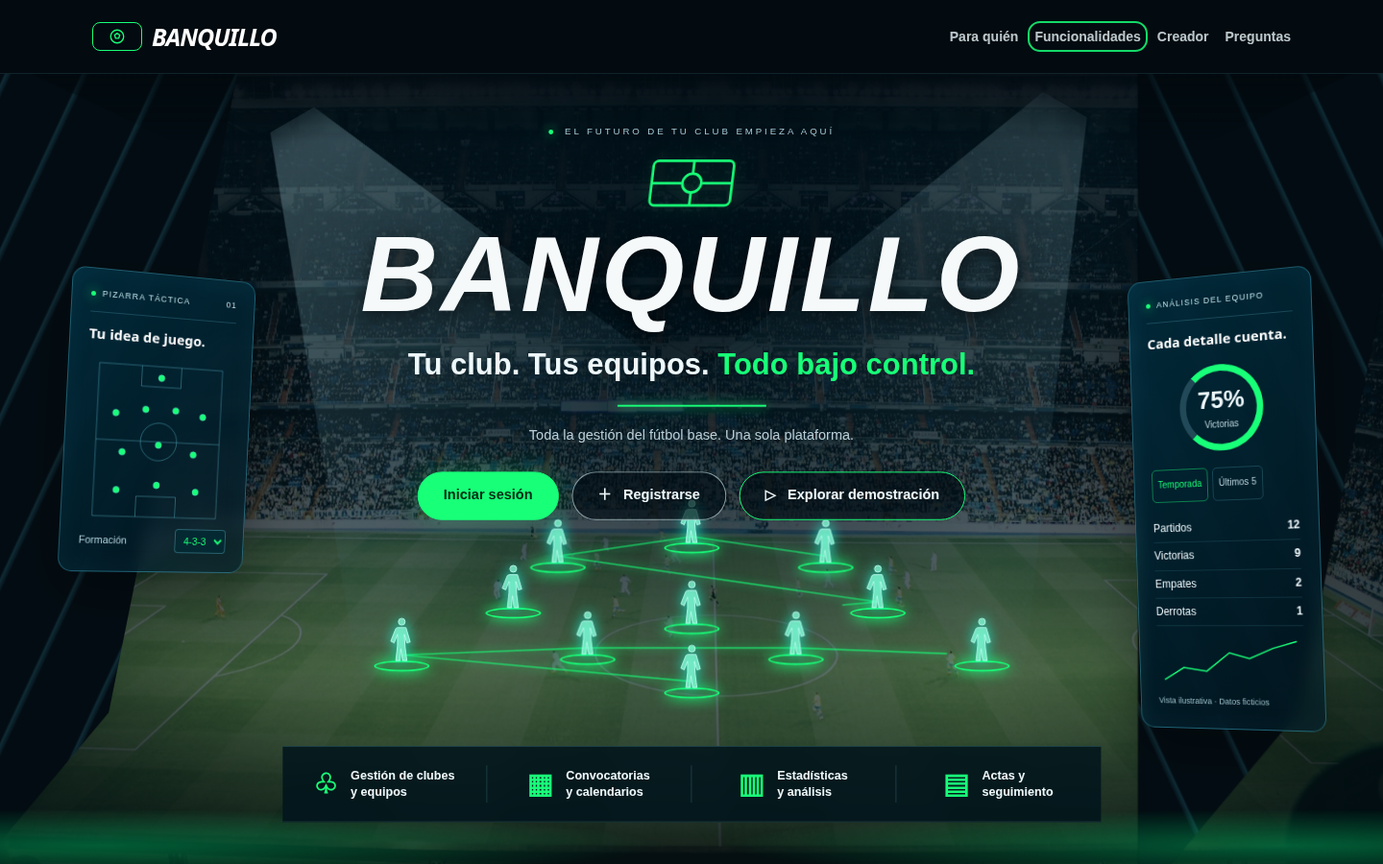
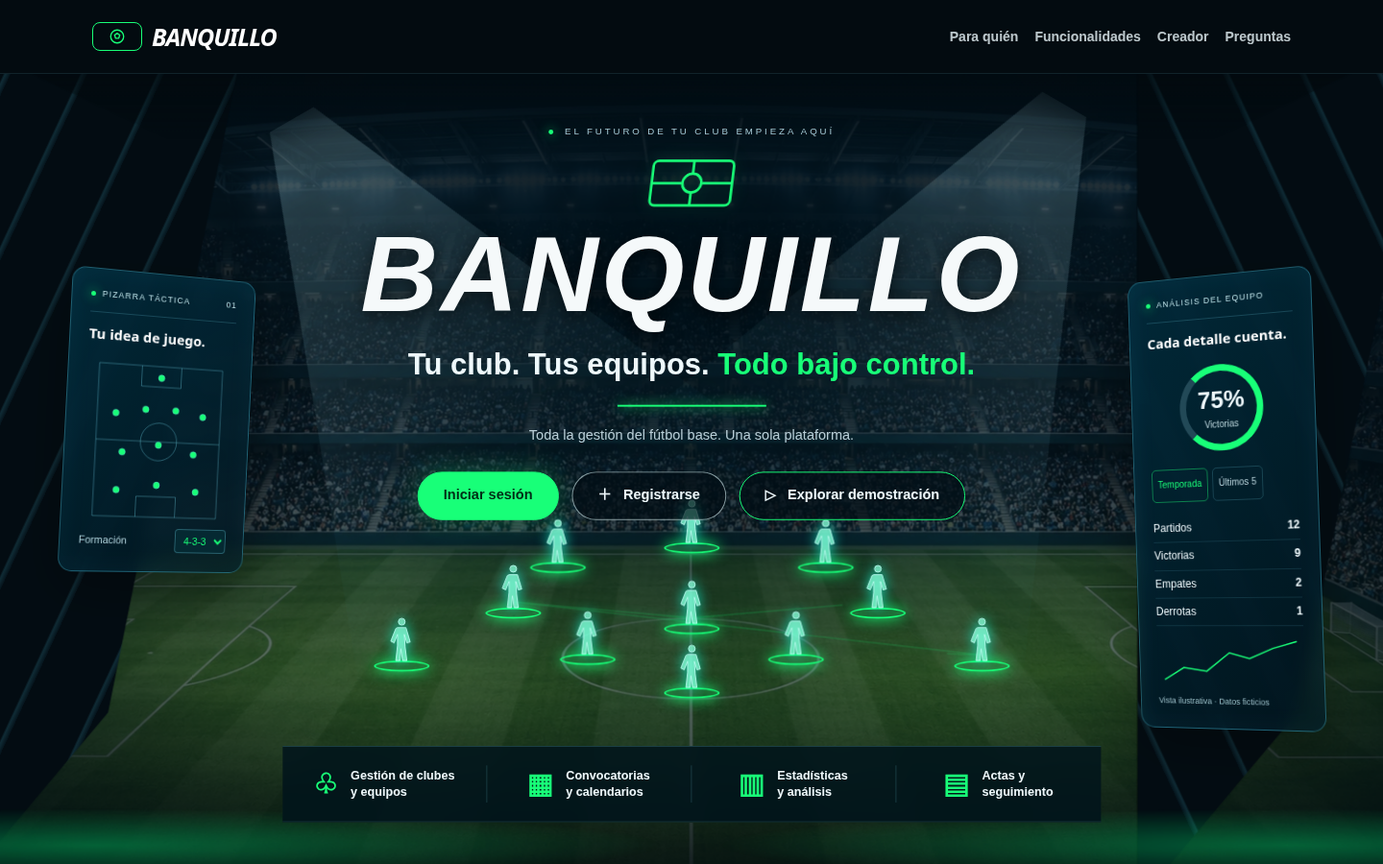
fix: focus auth forms, improve FAQ contrast and neutralize stadium backdrop

diff --git a/css/cinematic.css b/css/cinematic.css
@@ -1,10 +1,10 @@
 /* Isolated presentation layer: authenticated application styles stay intact. */
-#landing{--neon:#18ff78;--ice:#73daef;background:#030e14;color:#eef8fb;font-family:Barlow,sans-serif}#landing a{color:inherit}#landing .l-top{background:#030b10e8;border-bottom:1px solid #7cd5e51f;position:relative;z-index:5}#landing .l-top .l-in{max-width:1280px;min-height:76px}#landing .l-brand b{font-size:25px;font-style:italic;letter-spacing:-1px}#landing .mark{background:transparent;color:var(--neon);border:1px solid var(--neon)}#landing .l-nav a{color:#dde8ec;font-weight:600}#landing .l-nav a:hover{color:var(--neon)}#landing .cinema{height:850px;min-height:750px;position:relative;isolation:isolate;overflow:hidden;background:#04131b}.stadium-scene{position:absolute;inset:-25px;z-index:-2;transform:translate3d(var(--mx,0px),var(--my,0px),0) scale(1.04);transition:transform 1.5s ease-out}.stadium-photo{position:absolute;inset:0;background:linear-gradient(#00121ec7 0%,#00192365 50%,#00291b66 73%,#020e13 100%),url('../assets/stadium.jpg') center 62%/cover;filter:saturate(.7)}.stadium-haze{position:absolute;inset:0;background:radial-gradient(ellipse at 50% 25%,#001019d9 0%,transparent 65%),linear-gradient(90deg,#000b12a0,transparent 30%,transparent 70%,#000b12a0)}.tunnel{position:absolute;top:0;bottom:0;width:20%;background:repeating-linear-gradient(115deg,#030c12 0 65px,#102c36 67px,#05131b 72px);filter:drop-shadow(0 0 18px #000)}.tunnel-left{left:0;clip-path:polygon(0 0,100% 0,54% 78%,0 100%);border-left:5px solid #1cff94}.tunnel-right{right:0;clip-path:polygon(0 0,100% 0,100% 100%,46% 78%);transform:scaleX(-1)}.tunnel-roof{position:absolute;inset:0 0 auto;height:110px;background:linear-gradient(#02090d,transparent);clip-path:polygon(0 0,100% 0,85% 100%,15% 100%)}.floor-glow{position:absolute;bottom:0;height:150px;width:100%;background:radial-gradient(ellipse at 10% 60%,#00ff8055,transparent 30%),radial-gradient(ellipse at 90% 60%,#00ff8055,transparent 30%);border-bottom:1px solid #13ff6e}.spotlight{position:absolute;top:9%;width:34%;height:64%;background:linear-gradient(180deg,#c3f5ff77, #4fd4ff11 70%,transparent);filter:blur(16px);clip-path:polygon(42% 0,52% 0,100% 100%,0 100%);animation:stadium-light 9s ease-in-out infinite alternate;transform-origin:50% 0}.spotlight.left{left:7%;transform:rotate(-30deg)}.spotlight.right{right:7%;transform:rotate(30deg);animation-delay:-5s}.cinema-copy{position:relative;text-align:center;padding-top:55px;z-index:2;max-width:950px;margin:auto}.cinema-eyebrow{font-size:10px;letter-spacing:3px;color:#a6c8d3}.cinema-eyebrow span,.live-dot{display:inline-block;width:5px;height:5px;border-radius:50%;background:var(--neon);box-shadow:0 0 12px var(--neon);margin-right:7px}.pitch-logo{width:92px;height:57px;color:var(--neon);margin:19px auto 0;transform:skew(-7deg);filter:drop-shadow(0 0 9px #18ff7833)}#landing .cinema h1{font-family:'Barlow Condensed',sans-serif;font-size:clamp(65px,8vw,122px);font-style:italic;font-weight:700;letter-spacing:3px;line-height:1;margin:7px 0 16px;color:#f5f9fa;text-shadow:0 4px 20px #0009}.cinema-tagline{font-size:clamp(20px,2.4vw,32px);font-weight:600;margin:0}.cinema-tagline strong{color:var(--neon)}.neon-rule{width:160px;height:2px;background:var(--neon);box-shadow:0 0 12px var(--neon);margin:20px auto}.cinema-description{color:#b9ced7;font-size:15px}.cinema-actions{display:flex;justify-content:center;gap:14px;margin:28px 0}.cinema-btn{display:inline-flex;align-items:center;justify-content:center;min-height:52px;padding:0 27px;border:1px solid #d5edf0a1;border-radius:40px;text-decoration:none;font-weight:700;background:#020e14ad;transition:box-shadow .25s,transform .25s}.cinema-btn.primary{background:var(--neon);color:#002c15!important;border-color:var(--neon);box-shadow:0 0 30px #18ff7844}.cinema-btn.demo{border-color:var(--neon)}.cinema-btn:hover{transform:translateY(-3px);box-shadow:0 0 24px #18ff7844}.holo-panel{position:absolute;top:215px;width:205px;padding:20px;background:linear-gradient(135deg,#003347b8,#001620b8);border:1px solid #51cee85e;border-radius:15px;box-shadow:inset 0 0 32px #41d8ff0c,0 20px 60px #0005;backdrop-filter:blur(8px);z-index:1}.formation-panel{left:max(3%,calc(50% - 675px));transform:perspective(1000px) rotateY(15deg) rotateZ(3deg)}.stats-panel{right:max(3%,calc(50% - 675px));transform:perspective(1000px) rotateY(-15deg) rotateZ(-2deg)}.panel-heading{font-size:9px;letter-spacing:1.2px;color:#c0e3e9;border-bottom:1px solid #73daef33;padding-bottom:12px;display:flex;align-items:center}.panel-heading span:last-child:not(.live-dot){margin-left:auto}#landing .holo-panel h2{font-size:15px;color:#fff;margin:14px 0}.mini-pitch{width:100%;height:176px;stroke:#73daef66;color:var(--neon)}.formation-label{display:flex;justify-content:space-between;align-items:center;font-size:11px;color:#b0d2db}.formation-label select{background:#052932;color:var(--neon);border:1px solid #73daef55;border-radius:4px;padding:5px}.stat-ring{width:93px;height:93px;border:7px solid var(--neon);border-left-color:#224957;border-radius:50%;display:flex;flex-direction:column;justify-content:center;align-items:center;margin:18px auto}.stat-ring b{font-size:26px}.stat-ring span{font-size:10px;color:#bbd5db}.stat-tabs{display:flex;gap:5px}.stat-tabs button{font:inherit;font-size:10px;background:transparent;color:#b9d4dc;border:1px solid #73daef33;border-radius:5px;padding:6px;cursor:pointer}.stat-tabs button.active{color:var(--neon);border-color:#18ff7870}.stat-list{font-size:12px;margin:14px 0}.stat-list div{display:flex;justify-content:space-between;border-bottom:1px solid #73daef20;padding:6px 0}.stat-list dd{margin:0;font-weight:600}.stat-chart{width:100%;height:48px;fill:none;stroke:var(--neon);stroke-width:2}.holo-panel small{font-size:9px;color:#9bbfc8}.tactical-field{position:absolute;top:475px;left:50%;width:800px;height:190px;transform:translateX(-50%)}.tactical-lines{width:100%;height:100%;fill:none;stroke:#18ff78;stroke-width:1.4;filter:drop-shadow(0 0 5px #18ff78);stroke-dasharray:900;animation:tactics 6s ease-in-out infinite}.hologram{position:absolute;width:48px;height:60px;left:var(--x);top:var(--y);transform:translate(-50%,-70%);animation:materialize 1.4s both;animation-delay:var(--delay);transition:left 1s,top 1s}.hologram:before{content:'';position:absolute;bottom:0;left:-6px;width:60px;height:12px;border:2px solid var(--neon);border-radius:50%;box-shadow:0 0 15px var(--neon),inset 0 0 14px #18ff7855}.hologram svg{width:28px;height:50px;display:block;margin:auto;fill:#8affd7bb;stroke:#bdfff3;stroke-width:1;filter:drop-shadow(0 0 7px #14ffd9)}.cinema-features{position:absolute;bottom:92px;left:50%;transform:translateX(-50%);width:min(880px,85%);display:grid;grid-template-columns:repeat(4,1fr);background:#00131bd6;border-top:1px solid #73daef33;border-bottom:1px solid #73daef22;padding:20px 0;backdrop-filter:blur(10px)}.cinema-features a{display:flex;align-items:center;gap:13px;justify-content:center;font-size:13px;font-weight:600;text-decoration:none;border-right:1px solid #73daef30}.cinema-features a:last-child{border:0}.cinema-features a span{font-size:30px;color:var(--neon)}.scroll-cue{position:absolute;bottom:28px;left:50%;transform:translateX(-50%);font-size:9px;letter-spacing:2px;text-decoration:none;color:#a9c8d2!important;text-align:center}.scroll-cue span{display:block;font-size:20px;margin-top:7px}#landing .l-sec{background:#06131b;border-top:1px solid #86c9d51a;padding:85px 20px}#landing .l-sec.alt{background:#081922}#landing .l-in{max-width:1160px}#landing .l-sec h2{color:#f0f8fa;font-size:36px;letter-spacing:-.5px}#landing .l-sec p{color:#adc3ce}#landing .l-kicker{color:var(--neon);letter-spacing:2px;font-size:11px}#landing .entry-grid{display:grid;grid-template-columns:1fr 1fr;gap:100px;align-items:center}#landing .entry-grid h2{font-size:46px;line-height:1.1}#landing .l-demo-access{background:#0b292b;border-color:#18ff7833;margin-top:28px;scroll-margin-top:25px}#landing .l-demo-choices{display:flex;flex-wrap:wrap;gap:12px}#landing .l-demo-choices a{color:var(--neon);font-size:13px}#landing .auth-card{background:#0c202b;border:1px solid #73daef33;box-shadow:0 20px 60px #0004;border-radius:16px}#landing .auth-card h2{font-size:26px}#landing .l-mode-card,#landing .l-grid article{background:#0b202b;border:1px solid #73daef25;border-radius:14px;padding:28px}#landing .l-mode-card h3,#landing .l-grid h3,#landing .l-creator h3{color:#eef9fc}#landing .l-mode-label{color:var(--neon)}#landing .l-foot{background:#020b10;color:#9cb5c2}#landing :focus-visible{outline:2px solid var(--neon);outline-offset:5px}.reveal-ready{opacity:0;transform:translateY(20px);transition:opacity .7s,transform .7s}.reveal-ready.visible{opacity:1;transform:none}@keyframes stadium-light{to{opacity:.4;filter:blur(25px)}}@keyframes tactics{0%{stroke-dashoffset:900;opacity:.2}50%,100%{stroke-dashoffset:0;opacity:.8}}@keyframes materialize{from{opacity:0;filter:blur(6px);translate:0 15px}to{opacity:1;filter:blur(0);translate:0 0}}
+#landing{--neon:#18ff78;--ice:#73daef;background:#030e14;color:#eef8fb;font-family:Barlow,sans-serif}#landing a{color:inherit}#landing .l-top{background:#030b10e8;border-bottom:1px solid #7cd5e51f;position:relative;z-index:5}#landing .l-top .l-in{max-width:1280px;min-height:76px}#landing .l-brand b{font-size:25px;font-style:italic;letter-spacing:-1px}#landing .mark{background:transparent;color:var(--neon);border:1px solid var(--neon)}#landing .l-nav a{color:#dde8ec;font-weight:600}#landing .l-nav a:hover{color:var(--neon)}#landing .cinema{height:850px;min-height:750px;position:relative;isolation:isolate;overflow:hidden;background:#04131b}.stadium-scene{position:absolute;inset:-25px;z-index:-2;transform:translate3d(var(--mx,0px),var(--my,0px),0) scale(1.04);transition:transform 1.5s ease-out}.stadium-photo{position:absolute;inset:0;background:linear-gradient(#00121ec7 0%,#00192365 50%,#00291b66 73%,#020e13 100%),url('../assets/stadium-neutral.webp') center 62%/cover;filter:saturate(.7)}.stadium-haze{position:absolute;inset:0;background:radial-gradient(ellipse at 50% 25%,#001019d9 0%,transparent 65%),linear-gradient(90deg,#000b12a0,transparent 30%,transparent 70%,#000b12a0)}.tunnel{position:absolute;top:0;bottom:0;width:20%;background:repeating-linear-gradient(115deg,#030c12 0 65px,#102c36 67px,#05131b 72px);filter:drop-shadow(0 0 18px #000)}.tunnel-left{left:0;clip-path:polygon(0 0,100% 0,54% 78%,0 100%);border-left:5px solid #1cff94}.tunnel-right{right:0;clip-path:polygon(0 0,100% 0,100% 100%,46% 78%);transform:scaleX(-1)}.tunnel-roof{position:absolute;inset:0 0 auto;height:110px;background:linear-gradient(#02090d,transparent);clip-path:polygon(0 0,100% 0,85% 100%,15% 100%)}.floor-glow{position:absolute;bottom:0;height:150px;width:100%;background:radial-gradient(ellipse at 10% 60%,#00ff8055,transparent 30%),radial-gradient(ellipse at 90% 60%,#00ff8055,transparent 30%);border-bottom:1px solid #13ff6e}.spotlight{position:absolute;top:9%;width:34%;height:64%;background:linear-gradient(180deg,#c3f5ff77, #4fd4ff11 70%,transparent);filter:blur(16px);clip-path:polygon(42% 0,52% 0,100% 100%,0 100%);animation:stadium-light 9s ease-in-out infinite alternate;transform-origin:50% 0}.spotlight.left{left:7%;transform:rotate(-30deg)}.spotlight.right{right:7%;transform:rotate(30deg);animation-delay:-5s}.cinema-copy{position:relative;text-align:center;padding-top:55px;z-index:2;max-width:950px;margin:auto}.cinema-eyebrow{font-size:10px;letter-spacing:3px;color:#a6c8d3}.cinema-eyebrow span,.live-dot{display:inline-block;width:5px;height:5px;border-radius:50%;background:var(--neon);box-shadow:0 0 12px var(--neon);margin-right:7px}.pitch-logo{width:92px;height:57px;color:var(--neon);margin:19px auto 0;transform:skew(-7deg);filter:drop-shadow(0 0 9px #18ff7833)}#landing .cinema h1{font-family:'Barlow Condensed',sans-serif;font-size:clamp(65px,8vw,122px);font-style:italic;font-weight:700;letter-spacing:3px;line-height:1;margin:7px 0 16px;color:#f5f9fa;text-shadow:0 4px 20px #0009}.cinema-tagline{font-size:clamp(20px,2.4vw,32px);font-weight:600;margin:0}.cinema-tagline strong{color:var(--neon)}.neon-rule{width:160px;height:2px;background:var(--neon);box-shadow:0 0 12px var(--neon);margin:20px auto}.cinema-description{color:#b9ced7;font-size:15px}.cinema-actions{display:flex;justify-content:center;gap:14px;margin:28px 0}.cinema-btn{display:inline-flex;align-items:center;justify-content:center;min-height:52px;padding:0 27px;border:1px solid #d5edf0a1;border-radius:40px;text-decoration:none;font-weight:700;background:#020e14ad;transition:box-shadow .25s,transform .25s}.cinema-btn.primary{background:var(--neon);color:#002c15!important;border-color:var(--neon);box-shadow:0 0 30px #18ff7844}.cinema-btn.demo{border-color:var(--neon)}.cinema-btn:hover{transform:translateY(-3px);box-shadow:0 0 24px #18ff7844}.holo-panel{position:absolute;top:215px;width:205px;padding:20px;background:linear-gradient(135deg,#003347b8,#001620b8);border:1px solid #51cee85e;border-radius:15px;box-shadow:inset 0 0 32px #41d8ff0c,0 20px 60px #0005;backdrop-filter:blur(8px);z-index:1}.formation-panel{left:max(3%,calc(50% - 675px));transform:perspective(1000px) rotateY(15deg) rotateZ(3deg)}.stats-panel{right:max(3%,calc(50% - 675px));transform:perspective(1000px) rotateY(-15deg) rotateZ(-2deg)}.panel-heading{font-size:9px;letter-spacing:1.2px;color:#c0e3e9;border-bottom:1px solid #73daef33;padding-bottom:12px;display:flex;align-items:center}.panel-heading span:last-child:not(.live-dot){margin-left:auto}#landing .holo-panel h2{font-size:15px;color:#fff;margin:14px 0}.mini-pitch{width:100%;height:176px;stroke:#73daef66;color:var(--neon)}.formation-label{display:flex;justify-content:space-between;align-items:center;font-size:11px;color:#b0d2db}.formation-label select{background:#052932;color:var(--neon);border:1px solid #73daef55;border-radius:4px;padding:5px}.stat-ring{width:93px;height:93px;border:7px solid var(--neon);border-left-color:#224957;border-radius:50%;display:flex;flex-direction:column;justify-content:center;align-items:center;margin:18px auto}.stat-ring b{font-size:26px}.stat-ring span{font-size:10px;color:#bbd5db}.stat-tabs{display:flex;gap:5px}.stat-tabs button{font:inherit;font-size:10px;background:transparent;color:#b9d4dc;border:1px solid #73daef33;border-radius:5px;padding:6px;cursor:pointer}.stat-tabs button.active{color:var(--neon);border-color:#18ff7870}.stat-list{font-size:12px;margin:14px 0}.stat-list div{display:flex;justify-content:space-between;border-bottom:1px solid #73daef20;padding:6px 0}.stat-list dd{margin:0;font-weight:600}.stat-chart{width:100%;height:48px;fill:none;stroke:var(--neon);stroke-width:2}.holo-panel small{font-size:9px;color:#9bbfc8}.tactical-field{position:absolute;top:475px;left:50%;width:800px;height:190px;transform:translateX(-50%)}.tactical-lines{width:100%;height:100%;fill:none;stroke:#18ff78;stroke-width:1.4;filter:drop-shadow(0 0 5px #18ff78);stroke-dasharray:900;animation:tactics 6s ease-in-out infinite}.hologram{position:absolute;width:48px;height:60px;left:var(--x);top:var(--y);transform:translate(-50%,-70%);animation:materialize 1.4s both;animation-delay:var(--delay);transition:left 1s,top 1s}.hologram:before{content:'';position:absolute;bottom:0;left:-6px;width:60px;height:12px;border:2px solid var(--neon);border-radius:50%;box-shadow:0 0 15px var(--neon),inset 0 0 14px #18ff7855}.hologram svg{width:28px;height:50px;display:block;margin:auto;fill:#8affd7bb;stroke:#bdfff3;stroke-width:1;filter:drop-shadow(0 0 7px #14ffd9)}.cinema-features{position:absolute;bottom:92px;left:50%;transform:translateX(-50%);width:min(880px,85%);display:grid;grid-template-columns:repeat(4,1fr);background:#00131bd6;border-top:1px solid #73daef33;border-bottom:1px solid #73daef22;padding:20px 0;backdrop-filter:blur(10px)}.cinema-features a{display:flex;align-items:center;gap:13px;justify-content:center;font-size:13px;font-weight:600;text-decoration:none;border-right:1px solid #73daef30}.cinema-features a:last-child{border:0}.cinema-features a span{font-size:30px;color:var(--neon)}.scroll-cue{position:absolute;bottom:28px;left:50%;transform:translateX(-50%);font-size:9px;letter-spacing:2px;text-decoration:none;color:#a9c8d2!important;text-align:center}.scroll-cue span{display:block;font-size:20px;margin-top:7px}#landing .l-sec{background:#06131b;border-top:1px solid #86c9d51a;padding:85px 20px}#landing .l-sec.alt{background:#081922}#landing .l-in{max-width:1160px}#landing .l-sec h2{color:#f0f8fa;font-size:36px;letter-spacing:-.5px}#landing .l-sec p{color:#adc3ce}#landing .l-kicker{color:var(--neon);letter-spacing:2px;font-size:11px}#landing .entry-grid{display:grid;grid-template-columns:1fr 1fr;gap:100px;align-items:center}#landing .entry-grid h2{font-size:46px;line-height:1.1}#landing .l-demo-access{background:#0b292b;border-color:#18ff7833;margin-top:28px;scroll-margin-top:25px}#landing .l-demo-choices{display:flex;flex-wrap:wrap;gap:12px}#landing .l-demo-choices a{color:var(--neon);font-size:13px}#landing .auth-card{background:#0c202b;border:1px solid #73daef33;box-shadow:0 20px 60px #0004;border-radius:16px}#landing .auth-card h2{font-size:26px}#landing .l-mode-card,#landing .l-grid article{background:#0b202b;border:1px solid #73daef25;border-radius:14px;padding:28px}#landing .l-mode-card h3,#landing .l-grid h3,#landing .l-creator h3{color:#eef9fc}#landing .l-mode-label{color:var(--neon)}#landing .l-foot{background:#020b10;color:#9cb5c2}#landing :focus-visible{outline:2px solid var(--neon);outline-offset:5px}.reveal-ready{opacity:0;transform:translateY(20px);transition:opacity .7s,transform .7s}.reveal-ready.visible{opacity:1;transform:none}@keyframes stadium-light{to{opacity:.4;filter:blur(25px)}}@keyframes tactics{0%{stroke-dashoffset:900;opacity:.2}50%,100%{stroke-dashoffset:0;opacity:.8}}@keyframes materialize{from{opacity:0;filter:blur(6px);translate:0 15px}to{opacity:1;filter:blur(0);translate:0 0}}
 @media(max-width:1200px){.holo-panel{width:165px;padding:14px;top:300px}.cinema-copy{max-width:750px}.cinema-actions{gap:9px}.cinema-btn{padding:0 22px}.tactical-field{width:650px;top:490px}.formation-panel{left:2%}.stats-panel{right:2%}}
 @media(max-width:850px){#landing .cinema{height:850px}.cinema-copy{padding:55px 18px 0}.cinema-eyebrow{font-size:8px;letter-spacing:2px}.cinema-actions{flex-wrap:wrap;max-width:550px;margin:25px auto}.cinema-btn{font-size:14px;min-height:48px}.holo-panel{top:465px;width:150px}.formation-panel{left:5%}.stats-panel{right:5%}.holo-panel h2,.mini-pitch,.stat-list,.stat-chart,.stat-tabs{display:none}.stat-ring{width:70px;height:70px;margin:12px auto}.stat-ring b{font-size:21px}.stats-panel small{display:block;text-align:center}.formation-label{margin-top:15px;flex-direction:column;gap:12px}.tactical-field{top:530px;width:440px;max-width:95%;opacity:.7}.cinema-features{bottom:65px;width:94%;padding:15px 0}.cinema-features a{font-size:10px;gap:5px}.cinema-features a span{font-size:22px}.scroll-cue{bottom:13px}#landing .entry-grid{gap:35px}#landing .entry-grid h2{font-size:35px}#landing .l-nav{gap:15px}#landing .l-nav a{font-size:12px}.tunnel{width:15%}}
 @media(max-width:560px){#landing .l-top .l-in{min-height:64px;gap:10px;padding:12px 18px;flex-wrap:wrap;justify-content:center}#landing .l-nav{display:flex;gap:18px;justify-content:center;flex-wrap:wrap}#landing .l-brand b{font-size:21px}#landing .cinema{height:810px;min-height:0}.cinema-copy{padding-top:30px}.pitch-logo{width:68px;margin-top:17px}#landing .cinema h1{font-size:64px;letter-spacing:1px}.cinema-tagline{font-size:22px;line-height:1.5}.cinema-tagline strong{display:block}.cinema-description{font-size:13px;padding:0 20px}.neon-rule{margin:14px auto}.cinema-actions{gap:10px;margin-top:20px}.cinema-btn{padding:0 23px}.cinema-btn.demo{width:270px}.holo-panel{top:480px;width:135px;padding:12px}.formation-panel{left:5%}.stats-panel{right:5%}.panel-heading{font-size:7px;letter-spacing:.8px}.panel-heading span:last-child:not(.live-dot){display:none}.tactical-field{top:570px;width:400px}.cinema-features{bottom:55px;grid-template-columns:repeat(2,1fr);gap:14px}.cinema-features a{font-size:11px;justify-content:flex-start;padding-left:15px}.cinema-features a:nth-child(2){border:0}.cinema-features a span{width:24px}.scroll-cue{font-size:8px}#landing .entry-grid{grid-template-columns:1fr;gap:30px}#landing .l-sec{padding:55px 20px}#landing .l-sec h2{font-size:30px}.stadium-photo{background-position:50% 70%}.tunnel{width:12%}}
 @media(prefers-reduced-motion:reduce){#landing *,#landing *:before{animation:none!important;transition:none!important;scroll-behavior:auto!important}.stadium-scene{transform:none}.reveal-ready{opacity:1;transform:none}}
-#landing .skip-link{position:absolute;top:8px;left:8px;z-index:20;padding:12px;background:#18ff78;color:#002414;transform:translateY(-150%)}#landing .skip-link:focus{transform:none}body.in-app .stadium-scene *,body.in-app .tactical-field *{animation-play-state:paused}.stadium-photo{background-image:linear-gradient(#00121ee0 0%,#00192399 50%,#00291b88 73%,#020e13 100%),url('../assets/stadium.jpg')}.spotlight{opacity:.65}
+#landing .skip-link{position:absolute;top:8px;left:8px;z-index:20;padding:12px;background:#18ff78;color:#002414;transform:translateY(-150%)}#landing .skip-link:focus{transform:none}body.in-app .stadium-scene *,body.in-app .tactical-field *{animation-play-state:paused}.stadium-photo{background-image:linear-gradient(#00121ee0 0%,#00192399 50%,#00291b88 73%,#020e13 100%),url('../assets/stadium-neutral.webp')}.spotlight{opacity:.65}
 /* The homepage is a single viewport. Existing flows open above the scene. */
 body:has(#landing):not(.in-app){overflow:hidden}#landing{height:100svh}#landing .cinema{height:calc(100svh - var(--header-height,76px));min-height:0}.cinema-stage{position:relative;isolation:isolate;width:calc(100% / var(--scene-scale,1));height:850px;transform:scale(var(--scene-scale,1));transform-origin:top left}#landing main>.l-sec,#landing>.l-foot{display:none}#landing .scene-dialog{color:#eaf5f8;background:#06151eee;border:1px solid #51cee866;border-radius:20px;padding:48px 35px 30px;width:min(1000px,calc(100% - 32px));max-height:calc(100svh - 40px);box-shadow:0 30px 100px #000b;overscroll-behavior:contain}#landing .scene-dialog::backdrop{background:#000a;backdrop-filter:blur(10px)}#landing .scene-dialog:not([open]){display:none}#landing .scene-dialog[open]{display:block}#landing .scene-close{position:absolute;right:14px;top:12px;background:#18303b;color:white;border:1px solid #73daef44;width:32px;height:32px;border-radius:50%;cursor:pointer}#landing .scene-dialog .entry-grid{gap:40px}#landing .scene-dialog h2{color:#f0f8fa}#landing .scene-dialog p{color:#adc3ce}#landing .scene-info-content>.l-sec{display:block;padding:0;border:0;background:transparent}#landing .scene-dialog[data-view=demo]{width:min(580px,calc(100% - 32px))}#landing .scene-dialog[data-view=demo] .entry-grid{display:block}#landing .scene-dialog[data-view=demo] .l-auth{display:none}#landing .scene-dialog .l-in{opacity:1;transform:none}#landing .scene-dialog .l-demo-access{margin-bottom:0}.cinema-features{bottom:45px}
 @media(max-width:560px){.cinema-stage{height:810px}#landing .scene-dialog{padding:48px 20px 25px}#landing .scene-dialog .entry-grid{grid-template-columns:1fr}#landing .scene-dialog[data-view=auth] .entry-grid>div:first-child{display:none}.cinema-features{bottom:20px}}
@@ -19,4 +19,26 @@ body:has(#landing):not(.in-app){overflow:hidden}#landing{height:100svh}#landing 
 @media(max-width:700px){
   #landing .scene-dialog .entry-grid{grid-template-columns:minmax(0,1fr)}
   #landing .scene-dialog[data-view=auth] .entry-grid>div:first-child{display:none}
+}
+
+/* Keep authentication focused on its form; demos use their own dialog view. */
+#landing #acceso[data-view=auth]{width:min(650px,calc(100% - 32px));padding:52px 32px 32px}
+#landing #acceso[data-view=auth] .entry-grid{display:block}
+#landing #acceso[data-view=auth] .entry-grid>div:first-child{display:none}
+#landing #acceso[data-view=auth] .l-auth{width:100%;grid-area:auto}
+#landing #acceso[data-view=auth] .auth-card{padding:30px;margin:0;width:100%;box-sizing:border-box}
+#landing #acceso[data-view=auth] .auth-card h2{font-size:34px;margin:0 0 22px}
+#landing #acceso[data-view=auth] .fld>span{color:#d5e7ef;font-size:15px}
+#landing #acceso[data-view=auth] .inp{min-height:52px;font-size:17px}
+#landing #acceso[data-view=auth] .btn{min-height:50px;font-size:16px}
+#landing #acceso[data-view=auth] .link{color:#8fe5f3}
+#landing .l-faq details{background:#0c2430;border:1px solid #365563;border-radius:12px;color:#e8f4f8}
+#landing .l-faq summary{color:#e8f4f8;background:transparent;padding:17px 20px;font-weight:600;font-size:16px}
+#landing .l-faq summary::marker{color:#18ff78}
+#landing .l-faq details[open] summary{color:#18ff78;border-bottom:1px solid #365563}
+#landing .l-faq details p{color:#c8dce5;background:transparent;padding:4px 20px 18px;line-height:1.65}
+@media(max-width:560px){
+  #landing #acceso[data-view=auth]{padding:48px 16px 20px}
+  #landing #acceso[data-view=auth] .auth-card{padding:20px 16px}
+  #landing #acceso[data-view=auth] .auth-card h2{font-size:30px}
 }

diff --git a/index.html b/index.html
@@ -25,7 +25,7 @@
 <script type="application/ld+json">
 {"@context":"https://schema.org","@type":"SoftwareApplication","name":"Banquillo","alternateName":"El Banquillo del Entrenador","applicationCategory":"SportsApplication","operatingSystem":"Web","inLanguage":"es","description":"Aplicación web para entrenadores de fútbol base: plantilla, convocatorias, partidos, entrenamientos e informes individuales en PDF.","offers":{"@type":"Offer","price":"0","priceCurrency":"EUR"}}
 </script>
-<link rel="stylesheet" href="css/visual-fixes.css?v=20261112-final-v2"><link rel="stylesheet" href="css/cinematic.css">
+<link rel="stylesheet" href="css/visual-fixes.css?v=20261112-final-v2"><link rel="stylesheet" href="css/cinematic.css?v=20261115-access-neutral">
 </head>
 <body>
 

diff --git a/docs/REDISENO-INICIO.md b/docs/REDISENO-INICIO.md
@@ -10,7 +10,7 @@ Vistas: [Escritorio](preview-desktop.png) · [Móvil](preview-mobile.png).
 - `index.html`: nueva portada; conserva `authSlot`, aplicación, scripts, formularios y destinos de las demos.
 - `css/cinematic.css`: capa visual aislada en `#landing`, adaptación móvil y movimiento reducido.
 - `js/cinematic.js`: paralaje con requestAnimationFrame, aparición de hologramas, selector táctico, estadísticas ilustrativas y animaciones de entrada con IntersectionObserver.
-- `assets/stadium.jpg`: fotografía de estadio descargada de Unsplash (https://images.unsplash.com/photo-1522778119026-d647f0596c20), servida localmente. Aproximadamente 788 KB; sin dependencias JS añadidas.
+- `assets/stadium-neutral.webp`: fondo editado con generación de imagen a partir de la fotografía inicial; estadio neutral sin jugadores sobre el campo, escudos ni publicidad de clubes. Servido localmente, aproximadamente 420 KB; sin dependencias JS añadidas.
 
 ## Vista previa local
 Desde la raíz del repositorio:
@@ -29,3 +29,5 @@ No se envían formularios a cuentas reales. El envío de correos, inicio de sesi
 La escena utiliza fotografía y capas CSS/SVG con perspectiva; no es una reconstrucción tridimensional exacta de la imagen de referencia. Los paneles del escenario muestran datos ficticios. La página conserva el contenido y funcionalidades de la plataforma.
 
 Última verificación: cinco ventanas (1440×900, 390×844, 768×1024, 1366×768 y 390×667) sin desplazamiento horizontal o vertical; apertura y cierre por Escape de acceso, registro, recuperación, demos e información. Once hologramas y tres formaciones. La consulta de conectividad a Supabase desde Chromium falló con `Failed to fetch` en este entorno; no se confirma conectividad real ni acceso autenticado.
+
+Revisión de acceso: formulario centrado y ampliado, sin texto lateral ni demostraciones en las vistas de acceso/registro/recuperación; demos disponibles por separado. FAQ con superficies oscuras y texto claro. Comprobado en Chromium a 1440, 951, 768 y 390 px, sin desbordamientos ni errores JavaScript. Capturas actualizadas: preview-acceso.png, preview-registro.png, preview-preguntas.png, preview-desktop.png y preview-mobile.png.
